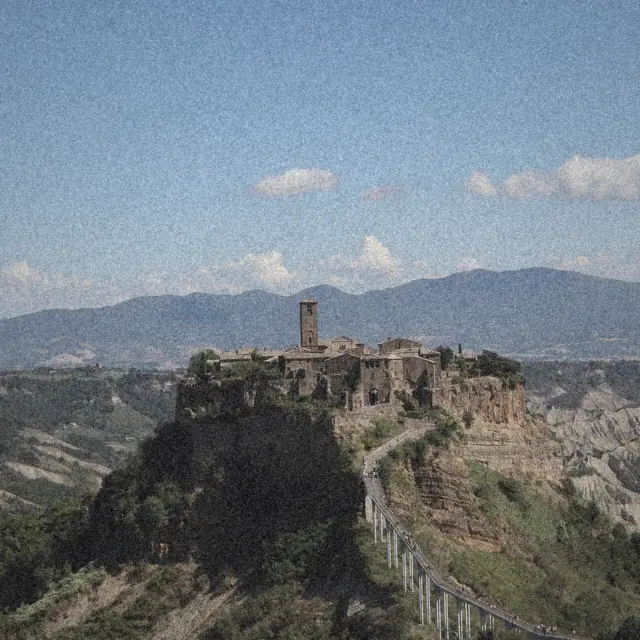
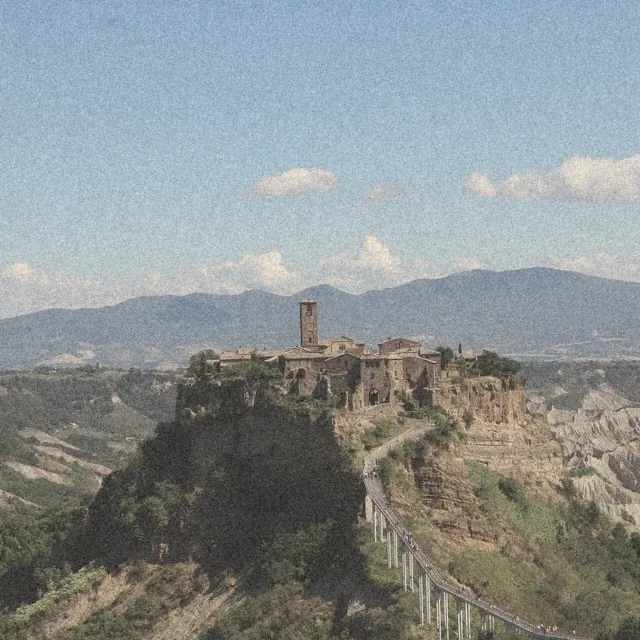
Hero help dot, Meet Argos section, lighter colour photos, new closing line
- Smaller hero headline; help text moved into an azure '?' dot pop-up with accent words and grain.
- Meet Argos section after the hero (Odyssey story, what he does), with a slot for the sketch.
- Photos regraded lighter and warmer with some colour; new set from Dushan's references.
- Closing section: 'Somewhere in Italy, a door is waiting for your key.' Any language everywhere.

Claude-Session: https://claude.ai/code/session_01RbeeASYwiyWEtYCN3RPs6M

diff --git a/src/routes/index.tsx b/src/routes/index.tsx
@@ -1,12 +1,13 @@
 import { useQuery } from "@tanstack/react-query";
 import { createFileRoute, Link, useNavigate } from "@tanstack/react-router";
-import { ArrowRight, Check, Info, MailCheck } from "lucide-react";
+import { ArrowRight, Check, MailCheck } from "lucide-react";
 import { useEffect, useState, type FormEvent, type ReactNode } from "react";
 
 import { ArgosComposer } from "@/components/odys/ArgosComposer";
 import { ListingCard, ListingCardSkeleton } from "@/components/odys/ListingCard";
 import { SourceQuote, Wordmark } from "@/components/odys/primitives";
 import { Accordion, AccordionContent, AccordionItem, AccordionTrigger } from "@/components/ui/accordion";
+import { Popover, PopoverContent, PopoverTrigger } from "@/components/ui/popover";
 import { setLang, useLang, type Lang } from "@/lib/i18n";
 import { exampleFactQuery, sendMagicLink, sourceCountsQuery, topListingsQuery } from "@/lib/public";
 import { cn } from "@/lib/utils";
@@ -38,27 +39,44 @@ function Em({ children }: { children: ReactNode }) {
   return <em className="font-display italic">{children}</em>;
 }
 
+/** Azure accent words inside the hero help pop-up. */
+function Hi({ children }: { children: ReactNode }) {
+  return <span className="text-[oklch(0.8_0.1_238)]">{children}</span>;
+}
+
+/** Set to "/img/argos.webp" once the sketch arrives; until then a lettered card stands in. */
+const ARGOS_SKETCH: string | null = null;
+
 const COPY = {
   en: {
     nav: { how: "How it works", browse: "Browse", pricing: "Pricing", signIn: "Sign in" },
     eyebrow: "sprezzatura, on your behalf.",
     hero: "Describe your dream house.",
     placeholder: "A stone house in Puglia under €40k, near a bar, some work is fine…",
-    help: "Just talk, like you would to a friend: where, how much, sea or hills, how much work you'll take on. I'll find it and do the Italian.",
-    howTalk: "Talk to me like this:",
+    helpTitle: "Talk to me like a friend.",
+    help: <>Tell me <Hi>where</Hi>, <Hi>how much</Hi>, <Hi>sea or hills</Hi> and <Hi>how much work</Hi> you'll take on. I'll find it and do the Italian.</>,
+    howTalk: "For example:",
     examples: ["Somewhere in Sicily under 30k. A house, not a flat. I can renovate.", "Show me the €1 towns in Sardinia.", "Something by the sea in the south, ready to live in, under 80k."],
-    howTalkEnd: "Tap the mic and speak, or type. Real houses appear while we talk.",
+    howTalkEnd: <>Tap the <Hi>mic</Hi> and speak any language, or type. Real houses appear while we talk.</>,
+    helpLabel: "How to talk to Argos",
     chips: ["A stone house under €50k, some work is fine", "Show me the €1 houses", "Court auctions in Sicily under €30k", "Surprise me"],
     browseAll: "Rather browse? See every listing",
     powered: "Argos, your AI agent in Italy · powered by Claude and GPT",
     statement: [<>Italy sells houses <Em>below the court's valuation</Em>.</>, " Nobody tells you where."],
+    argosLabel: "Your agent",
+    argosTitle: <>Meet <Em>Argos</Em>.</>,
+    argosStory: "Odysseus was gone for twenty years. When he finally came home in disguise, nobody knew him. Except Argos, his dog, who had waited the whole time.",
+    argosNow: "Ours doesn't wait around. Every morning he reads every court notice in Italy, writes to notaries in better Italian than yours, calls when it's quicker, and tells you only what matters. Loyal, tireless, always by your side. And yes, he talks.",
+    argosFacts: ["Reads every notice, every morning", "Writes and calls in Italian for you", "Speaks your language, whatever it is", "Never sleeps. Never sheds."],
+    argosCta: "Talk to Argos",
+    argosMeaning: "ἄργος · swift, bright",
     placesTitle: <>Where the houses are, <Em>if you know where to look</Em>.</>,
     placesLink: "Ask Argos",
     places: [
-      { img: "puglia", n: "01", title: "Puglia", body: "Trulli and masserie, many sold by the court below their valuation.", q: "A trullo or masseria in Puglia" },
-      { img: "ostuni", n: "02", title: "The white towns", body: "Whitewashed lanes in Puglia's hill towns. Small houses, small prices.", q: "A small house in a white town in Puglia" },
-      { img: "matera", n: "03", title: "Basilicata", body: "Stone houses around Matera, and quiet villages nobody has found yet.", q: "A stone house in Basilicata" },
-      { img: "tuscany", n: "04", title: "Tuscany", body: "Farmhouses at the end of cypress roads. Fewer bargains, better stories.", q: "A farmhouse in Tuscany" },
+      { img: "coast", n: "01", title: "Puglia", body: "Coves, whitewash and masserie, many sold by the court below their valuation.", q: "A house near the sea in Puglia" },
+      { img: "amalfi", n: "02", title: "The Amalfi Coast", body: "Rare and never cheap, but the courts sell here too. Argos watches every notice.", q: "Something on the Amalfi Coast" },
+      { img: "tuscany", n: "03", title: "Tuscany", body: "Farmhouses at the end of cypress roads. Fewer bargains, better stories.", q: "A farmhouse in Tuscany" },
+      { img: "alps", n: "04", title: "The Dolomites", body: "Wooden farmhouses under the peaks, for people who prefer snow to sea.", q: "A mountain house in Trentino" },
     ],
     notListedTitle: "Somewhere else?",
     notListedBody: "Argos reads every region, from the Alps to Lampedusa. Tell him where you'd like to wake up.",
@@ -69,7 +87,7 @@ const COPY = {
     howTitle: <>Ten phone calls. <Em>One shrug.</Em></>,
     howBody: "Behind the curtain: courts, town halls, a geometra, a notary, a deadline at noon on a Tuesday. In front of it: you, unbothered.",
     steps: [
-      { title: "Say it", body: "Budget, region, how much work you'll take on. Out loud, in English or Russian.", chip: "Answered in seconds" },
+      { title: "Say it", body: "Budget, region, how much work you'll take on. Out loud, in any language.", chip: "Answered in seconds" },
       { title: "Argos does Italy", body: "Every notice read, the Italian translated, emails and calls to delegates and notaries. You approve each one.", chip: "Approved by you" },
       { title: "You pick. You own.", body: "A shortlist, one deal room, one notary, your name on the deed.", chip: "Never brave on the phone" },
     ],
@@ -91,20 +109,20 @@ const COPY = {
       { img: "masseria", quote: "I said 'something in Puglia, under forty, walk to a bar'. Nine days later I was standing in it.", name: "Hannah & Tom", where: "Bristol → Ceglie Messapica" },
       { img: "cefalu", quote: "I don't speak a word of Italian. Argos called the notary, I drank coffee.", name: "Olga S.", where: "Moscow → Sciacca" },
       { img: "civita", quote: "The court papers were 84 pages. Argos told me the three lines that mattered.", name: "Marco & Lena", where: "Munich → Spoleto" },
-      { img: "trulli", quote: "Bought a house for 19 thousand. My friends think I searched for ages.", name: "Dmitri K.", where: "St Petersburg → Agrigento" },
+      { img: "oranges", quote: "Bought a house for 19 thousand. My friends think I searched for ages.", name: "Dmitri K.", where: "St Petersburg → Agrigento" },
     ],
     faqTitle: <>Fair <Em>questions</Em>.</>,
     faq: [
       { q: "So who actually buys the house?", a: "You do. Argos finds it, reads every document, writes and calls in Italian, and keeps every deadline. You approve each message and you sign with the notary. We are a technology service, not an estate agency, law firm or notary." },
-      { q: "Do I need to speak Italian?", a: "No. Talk to Argos in English or Russian. Everything Italian is translated, with the original one tap away, and every message Argos sends is shown to you in your language first." },
+      { q: "Do I need to speak Italian?", a: "No. Talk to Argos in any language you like, out loud or typed. Everything Italian is translated, with the original one tap away, and every message Argos sends is shown to you in your language first." },
       { q: "Why are these houses so cheap?", a: "Most are sold by courts, notaries and towns, not agents, so nobody markets them. Most need work and a little love. That's the whole discount." },
       { q: "What about the €1 houses?", a: "Real, with conditions: a renovation within a few years and a deposit of a few thousand euros. Argos shows each town's actual rules and the houses still on offer." },
       { q: "Can foreigners buy property in Italy?", a: "Most nationalities can. It depends on your citizenship and Italy's reciprocity rules. Argos checks it for you, and the notary confirms it before you commit." },
       { q: "What does it cost?", a: "Exploring and talking to Argos is free to start. Pro adds unlimited deals, outreach and calls. Fees to the court, the notary or a surveyor are paid by you, directly to them." },
     ],
-    finalTitle: <>Your house is in an Italian PDF <Em>somewhere</Em>.</>,
-    finalBody: "Argos is already reading it. Free to start, no password, no card.",
-    finalPoints: ["No obligation", "Real listings from day one", "Talk in English or Russian"],
+    finalTitle: <>Somewhere in Italy, a door is <Em>waiting for your key</Em>.</>,
+    finalBody: "Argos is already looking for it. Free to start, no password, no card.",
+    finalPoints: ["No obligation", "Real houses from day one", "Speak any language you like"],
     getStarted: "Get started",
     sending: "Sending",
     sent: "Check your inbox for the sign-in link.",
@@ -118,21 +136,30 @@ const COPY = {
     eyebrow: "sprezzatura, от вашего имени.",
     hero: "Опишите дом своей мечты.",
     placeholder: "Каменный дом в Апулии до 40 тысяч, рядом бар, можно с ремонтом…",
-    help: "Говорите как с другом: где, сколько, море или холмы, готовы ли к ремонту. Я найду и возьму итальянский на себя.",
-    howTalk: "Говорите со мной так:",
+    helpTitle: "Говорите со мной как с другом.",
+    help: <>Скажите <Hi>где</Hi>, <Hi>сколько</Hi>, <Hi>море или холмы</Hi> и <Hi>готовы ли к ремонту</Hi>. Я найду и возьму итальянский на себя.</>,
+    howTalk: "Например:",
     examples: ["Где-нибудь на Сицилии до 30 тысяч. Дом, не квартира. Ремонт не пугает.", "Покажи города с домами за 1 евро на Сардинии.", "Что-нибудь у моря на юге, сразу жить, до 80 тысяч."],
-    howTalkEnd: "Нажмите на микрофон и говорите или пишите. Настоящие дома появятся, пока мы разговариваем.",
+    howTalkEnd: <>Нажмите на <Hi>микрофон</Hi> и говорите на любом языке или пишите. Настоящие дома появятся, пока мы разговариваем.</>,
+    helpLabel: "Как говорить с Argos",
     chips: ["Каменный дом до €50 тыс., можно с ремонтом", "Покажи дома за €1", "Судебные торги на Сицилии до €30 тыс.", "Удиви меня"],
     browseAll: "Хотите просто посмотреть? Все объявления",
     powered: "Argos, ваш ИИ-агент в Италии · на Claude и GPT",
     statement: [<>Италия продаёт дома <Em>ниже судебной оценки</Em>.</>, " Только никто не говорит где."],
+    argosLabel: "Ваш агент",
+    argosTitle: <>Знакомьтесь, <Em>Argos</Em>.</>,
+    argosStory: "Одиссей отсутствовал двадцать лет. Когда он вернулся домой переодетым, его никто не узнал. Кроме Аргоса, его пса, который ждал всё это время.",
+    argosNow: "Наш не ждёт. Каждое утро он читает все судебные объявления Италии, пишет нотариусам на итальянском лучше вашего, звонит, когда так быстрее, и говорит вам только главное. Верный, неутомимый, всегда рядом. И да, он разговаривает.",
+    argosFacts: ["Читает каждое объявление, каждое утро", "Пишет и звонит по-итальянски за вас", "Говорит на вашем языке, каким бы он ни был", "Не спит. Не линяет."],
+    argosCta: "Поговорить с Argos",
+    argosMeaning: "ἄργος · быстрый, сияющий",
     placesTitle: <>Где эти дома, <Em>если знать, где искать</Em>.</>,
     placesLink: "Спросить Argos",
     places: [
-      { img: "puglia", n: "01", title: "Апулия", body: "Трулли и массерии, многие продаёт суд ниже оценки.", q: "Трулло или массерия в Апулии" },
-      { img: "ostuni", n: "02", title: "Белые города", body: "Выбеленные улочки горных городков Апулии. Маленькие дома, маленькие цены.", q: "Небольшой дом в белом городе Апулии" },
-      { img: "matera", n: "03", title: "Базиликата", body: "Каменные дома вокруг Матеры и тихие деревни, которые ещё никто не нашёл.", q: "Каменный дом в Базиликате" },
-      { img: "tuscany", n: "04", title: "Тоскана", body: "Фермерские дома в конце кипарисовых аллей. Меньше скидок, больше историй.", q: "Фермерский дом в Тоскане" },
+      { img: "coast", n: "01", title: "Апулия", body: "Бухты, белёные стены и массерии, многие продаёт суд ниже оценки.", q: "Дом у моря в Апулии" },
+      { img: "amalfi", n: "02", title: "Амальфитанское побережье", body: "Редко и недёшево, но суды продают и здесь. Argos следит за каждым объявлением.", q: "Что-нибудь на Амальфитанском побережье" },
+      { img: "tuscany", n: "03", title: "Тоскана", body: "Фермерские дома в конце кипарисовых аллей. Меньше скидок, больше историй.", q: "Фермерский дом в Тоскане" },
+      { img: "alps", n: "04", title: "Доломиты", body: "Деревянные дома под вершинами, для тех, кто любит снег больше моря.", q: "Горный дом в Трентино" },
     ],
     notListedTitle: "Где-то ещё?",
     notListedBody: "Argos читает все регионы, от Альп до Лампедузы. Скажите ему, где хотите просыпаться.",
@@ -143,7 +170,7 @@ const COPY = {
     howTitle: <>Десять звонков. <Em>Одно пожатие плеч.</Em></>,
     howBody: "За кулисами: суды, мэрии, геометр, нотариус, дедлайн во вторник в полдень. На сцене: вы, совершенно спокойный.",
     steps: [
-      { title: "Скажите", body: "Бюджет, регион, готовность к ремонту. Голосом, по-русски или по-английски.", chip: "Ответ за секунды" },
+      { title: "Скажите", body: "Бюджет, регион, готовность к ремонту. Голосом, на любом языке.", chip: "Ответ за секунды" },
       { title: "Argos берёт Италию на себя", body: "Каждое объявление прочитано, итальянский переведён, письма и звонки делегатам и нотариусам. Каждое вы одобряете.", chip: "Одобрено вами" },
       { title: "Вы выбираете. Вы владеете.", body: "Шорт-лист, одна сделка, один нотариус, ваше имя в договоре.", chip: "Никаких звонков на итальянском" },
     ],
@@ -165,20 +192,20 @@ const COPY = {
       { img: "masseria", quote: "Я сказала: «Апулия, до сорока, пешком до бара». Через девять дней я стояла внутри.", name: "Ханна и Том", where: "Бристоль → Челье-Мессапика" },
       { img: "cefalu", quote: "Я не говорю по-итальянски ни слова. Argos звонил нотариусу, я пила кофе.", name: "Ольга С.", where: "Москва → Шакка" },
       { img: "civita", quote: "Судебные документы были на 84 страницы. Argos показал три строки, которые имели значение.", name: "Марко и Лена", where: "Мюнхен → Сполето" },
-      { img: "trulli", quote: "Купил дом за 19 тысяч. Друзья думают, что я долго искал.", name: "Дмитрий К.", where: "Санкт-Петербург → Агридженто" },
+      { img: "oranges", quote: "Купил дом за 19 тысяч. Друзья думают, что я долго искал.", name: "Дмитрий К.", where: "Санкт-Петербург → Агридженто" },
     ],
     faqTitle: <>Честные <Em>вопросы</Em>.</>,
     faq: [
       { q: "Так кто в итоге покупает дом?", a: "Вы. Argos находит, читает все документы, пишет и звонит по-итальянски, следит за сроками. Каждое сообщение вы одобряете, а подписываете у нотариуса. Мы технологический сервис, не агентство, не юристы и не нотариус." },
-      { q: "Нужно ли знать итальянский?", a: "Нет. Говорите с Argos по-русски или по-английски. Всё итальянское переведено, оригинал в одно касание, и каждое сообщение Argos сначала показывает вам на вашем языке." },
+      { q: "Нужно ли знать итальянский?", a: "Нет. Говорите с Argos на любом языке, голосом или текстом. Всё итальянское переведено, оригинал в одно касание, и каждое сообщение Argos сначала показывает вам на вашем языке." },
       { q: "Почему эти дома такие дешёвые?", a: "Большинство продают суды, нотариусы и муниципалитеты, не агенты, поэтому их никто не рекламирует. Большинству нужен ремонт и немного любви. В этом вся скидка." },
       { q: "А дома за 1 евро?", a: "Настоящие, но с условиями: ремонт за несколько лет и залог в несколько тысяч евро. Argos показывает реальные правила каждого города и дома, которые ещё доступны." },
       { q: "Могут ли иностранцы покупать недвижимость в Италии?", a: "Граждане большинства стран могут. Это зависит от гражданства и принципа взаимности. Argos проверит, а нотариус подтвердит до сделки." },
       { q: "Сколько это стоит?", a: "Смотреть и говорить с Argos можно бесплатно. Pro добавляет неограниченные сделки, переписку и звонки. Пошлины суду, нотариусу или геометру вы платите им напрямую." },
     ],
-    finalTitle: <>Ваш дом где-то в <Em>итальянском PDF</Em>.</>,
-    finalBody: "Argos его уже читает. Бесплатно, без пароля и без карты.",
-    finalPoints: ["Без обязательств", "Настоящие объявления с первого дня", "По-русски или по-английски"],
+    finalTitle: <>Где-то в Италии дверь <Em>ждёт ваш ключ</Em>.</>,
+    finalBody: "Argos уже её ищет. Бесплатно, без пароля и без карты.",
+    finalPoints: ["Без обязательств", "Настоящие дома с первого дня", "Говорите на любом языке"],
     getStarted: "Начать",
     sending: "Отправляем",
     sent: "Проверьте почту: там ссылка для входа.",
@@ -204,6 +231,7 @@ function Index() {
     <div className="min-h-screen bg-background">
       <SiteHeader />
       <Hero />
+      <MeetArgos />
       <Statement />
       <Places />
       <HowItWorks />
@@ -315,30 +343,20 @@ function HeroVideo() {
 function Hero() {
   const [c, lang] = useCopy();
   const navigate = useNavigate();
-  const [hint, setHint] = useState(false);
   const go = (q: string, spoken = false) => navigate({ to: "/argos", search: { q, ...(spoken ? { voice: true } : {}) } });
   return (
     <section className="relative flex min-h-[100svh] flex-col overflow-hidden bg-foreground text-white">
       <HeroVideo />
       <div className="relative z-10 mx-auto flex w-full max-w-3xl flex-1 flex-col items-center justify-center px-5 pb-16 pt-24 text-center">
         <p className="font-display text-[24px] italic leading-none text-white/90 md:text-[30px]">{c.eyebrow}</p>
-        <h1 className="mt-6 type-h1 md:mt-7 md:text-[64px]">{c.hero}</h1>
-        <div className="mt-9 w-full max-w-[580px]">
-          <ArgosComposer onSubmit={go} placeholder={c.placeholder} lang={lang === "ru" ? "ru-RU" : "en-GB"} />
-        </div>
-        <div className="mt-3 flex max-w-[540px] items-start justify-center gap-2 text-[13px] font-light leading-relaxed text-white/80">
-          <p>{c.help}</p>
-          <button type="button" onClick={() => setHint(!hint)} aria-label="How to talk to Argos" className="mt-0.5 shrink-0 text-white/70 hover:text-white">
-            <Info className="h-3.5 w-3.5" />
-          </button>
-        </div>
-        {hint && (
-          <div className="frost mt-3 w-full max-w-[540px] rounded-2xl p-4 text-left text-[13px] leading-relaxed text-white/90">
-            <p className="text-white">{c.howTalk}</p>
-            <ul className="mt-1.5 space-y-1 font-light text-white/80">{c.examples.map((e) => <li key={e}>“{e}”</li>)}</ul>
-            <p className="mt-2 font-light text-white/70">{c.howTalkEnd}</p>
+        <h1 className="mt-6 type-h1 text-[38px] md:mt-7 md:text-[52px]">{c.hero}</h1>
+        <div className="mt-9 flex w-full max-w-[640px] items-center gap-2.5">
+          <span aria-hidden className="hidden w-7 shrink-0 sm:block" />
+          <div className="min-w-0 flex-1">
+            <ArgosComposer onSubmit={go} placeholder={c.placeholder} lang={lang === "ru" ? "ru-RU" : "en-GB"} />
           </div>
-        )}
+          <HelpDot />
+        </div>
         <div className="mt-6 flex max-w-[620px] flex-wrap justify-center gap-1.5">
           {c.chips.map((chip) => (
             <button key={chip} type="button" onClick={() => go(chip)}
@@ -352,6 +370,78 @@ function Hero() {
         </Link>
       </div>
       <p className="relative z-10 pb-5 text-center text-xs font-light text-white/55">{c.powered}</p>
+    </section>
+  );
+}
+
+/** The azure "?" dot beside the chatbox, like the dot in the wordmark. Opens a small grainy note on how to talk to Argos. */
+function HelpDot() {
+  const [c] = useCopy();
+  return (
+    <Popover>
+      <PopoverTrigger
+        aria-label={c.helpLabel}
+        className="relative flex h-7 w-7 shrink-0 items-center justify-center rounded-full bg-azure font-display text-[17px] italic leading-none text-white shadow-[0_0_0_4px_oklch(0.52_0.13_245/0.22)] transition-transform hover:scale-110 focus-visible:outline-none focus-visible:ring-2 focus-visible:ring-white/70"
+      >
+        ?
+      </PopoverTrigger>
+      <PopoverContent
+        side="bottom"
+        align="end"
+        sideOffset={12}
+        className="relative w-[min(340px,calc(100vw-32px))] overflow-hidden rounded-2xl border border-white/20 bg-[oklch(0.22_0.02_245/0.62)] p-5 text-white shadow-[0_24px_60px_-24px_oklch(0_0_0/0.6)] backdrop-blur-2xl"
+      >
+        <div className="grain-overlay opacity-[0.35]" />
+        <div className="relative">
+          <p className="font-display text-[22px] italic leading-tight">{c.helpTitle}</p>
+          <p className="mt-2 text-[14px] font-light leading-relaxed text-white/85">{c.help}</p>
+          <p className="mt-4 text-[11px] uppercase tracking-[0.12em] text-white/50">{c.howTalk}</p>
+          <ul className="mt-2 space-y-1.5 text-[13px] font-light leading-relaxed text-white/80">
+            {c.examples.map((e) => <li key={e}>“{e}”</li>)}
+          </ul>
+          <p className="mt-4 border-t border-white/15 pt-3 text-[13px] font-light leading-relaxed text-white/75">{c.howTalkEnd}</p>
+        </div>
+      </PopoverContent>
+    </Popover>
+  );
+}
+
+/** Argos, right after the hero: who he is, with a wink at the Odyssey. */
+function MeetArgos() {
+  const [c] = useCopy();
+  return (
+    <section className="py-20 md:py-32">
+      <Wrap className="grid items-center gap-12 md:grid-cols-[minmax(0,5fr)_minmax(0,7fr)] md:gap-20">
+        <div className="grain relative flex aspect-[4/5] max-h-[560px] w-full flex-col items-center justify-center overflow-hidden rounded-[10px] bg-muted">
+          {ARGOS_SKETCH ? (
+            <img src={ARGOS_SKETCH} alt="A sketch of Argos" className="absolute inset-0 h-full w-full object-contain p-8" />
+          ) : (
+            <>
+              <p className="font-display text-[88px] italic leading-none tracking-[-0.02em] md:text-[112px]">
+                Argos<span className="ml-1 inline-block h-[0.14em] w-[0.14em] rounded-full bg-azure align-baseline" />
+              </p>
+              <p className="mt-5 text-[13px] font-light tracking-[0.04em] text-foreground/55">{c.argosMeaning}</p>
+            </>
+          )}
+        </div>
+        <div>
+          <Label>{c.argosLabel}</Label>
+          <H2 className="mt-5">{c.argosTitle}</H2>
+          <p className="mt-7 max-w-[600px] font-display text-[22px] italic leading-snug text-foreground/80 md:text-[24px]">{c.argosStory}</p>
+          <p className="mt-5 max-w-[600px] type-body text-foreground/62">{c.argosNow}</p>
+          <ul className="mt-9 grid max-w-[600px] gap-x-8 gap-y-3 sm:grid-cols-2">
+            {c.argosFacts.map((f) => (
+              <li key={f} className="flex items-start gap-3 text-[15px] font-light">
+                <span aria-hidden className="mt-[9px] h-1.5 w-1.5 shrink-0 rounded-full bg-azure" />
+                {f}
+              </li>
+            ))}
+          </ul>
+          <div className="mt-10">
+            <PillLink to="/argos" search={{ q: "", voice: false }}>{c.argosCta}</PillLink>
+          </div>
+        </div>
+      </Wrap>
     </section>
   );
 }
@@ -502,7 +592,7 @@ function Sprezzatura() {
   return (
     <section className={SECTION}>
       <Wrap className="grid items-center gap-12 md:grid-cols-[minmax(0,5fr)_minmax(0,6fr)] md:gap-20">
-        <Photo name="alley" alt="A whitewashed lane in Ostuni" className="aspect-[4/5] max-h-[620px]" />
+        <Photo name="lunch" alt="Lunch by the sea under a fringed umbrella" className="aspect-[4/5] max-h-[620px]" />
         <div className="max-w-xl border-y border-foreground/15 py-10">
           <div className="flex flex-wrap items-baseline justify-between gap-x-6 gap-y-2">
             <p className="font-display text-[48px] italic leading-none tracking-[-0.01em]">{s.word}</p>
@@ -639,7 +729,7 @@ function Final() {
           <p className="mt-6 max-w-md type-body text-foreground/62">{c.finalBody}</p>
         </div>
         <div className="relative overflow-hidden rounded-[10px]">
-          <img src="/img/sky.webp" alt="" aria-hidden loading="lazy" className="absolute inset-0 h-full w-full object-cover" />
+          <img src="/img/window.webp" alt="" aria-hidden loading="lazy" className="absolute inset-0 h-full w-full object-cover" />
           <div className="relative m-6 rounded-[10px] border border-white/60 bg-white/55 p-7 backdrop-blur-xl md:m-12 md:p-9">
             <p className="type-label text-[11px] text-foreground/55">{c.getStarted}</p>
             <ul className="mt-5 space-y-3 text-[16px] font-light">

diff --git a/src/lib/photo-credits.ts b/src/lib/photo-credits.ts
@@ -1,40 +1,5 @@
-/** Openly licensed photos from Wikimedia Commons, regraded (black and white or muted colour, film grain). Shown on /credits. */
+/** Openly licensed photos from Wikimedia Commons, regraded (muted colour, film grain). Shown on /credits. */
 export const PHOTO_CREDITS = [
-  {
-    "image": "puglia",
-    "title": "Trulli in Alberobello 2015.jpg",
-    "author": "Livioandronico2013",
-    "license": "CC BY-SA 4.0",
-    "source": "https://commons.wikimedia.org/wiki/File:Trulli_in_Alberobello_2015.jpg"
-  },
-  {
-    "image": "ostuni",
-    "title": "\"Ostuni beeindruckt mit einer malerischen Altstadt.\" 04.jpg",
-    "author": "Holger Uwe Schmitt",
-    "license": "CC BY-SA 4.0",
-    "source": "https://commons.wikimedia.org/wiki/File:%22Ostuni_beeindruckt_mit_einer_malerischen_Altstadt.%22_04.jpg"
-  },
-  {
-    "image": "matera",
-    "title": "Matera maisons sassi.jpg",
-    "author": "Velvet",
-    "license": "CC BY-SA 4.0",
-    "source": "https://commons.wikimedia.org/wiki/File:Matera_maisons_sassi.jpg"
-  },
-  {
-    "image": "tuscany",
-    "title": "Cypress avenue at Via Cassia in Val d'Orcia.jpg",
-    "author": "Enrico Pighetti from Civitanova Marche, Italia",
-    "license": "CC BY 2.0",
-    "source": "https://commons.wikimedia.org/wiki/File:Cypress_avenue_at_Via_Cassia_in_Val_d%27Orcia.jpg"
-  },
-  {
-    "image": "alley",
-    "title": "\"Ostuni beeindruckt mit einer malerischen Altstadt.\" 06.jpg",
-    "author": "Holger Uwe Schmitt",
-    "license": "CC BY-SA 4.0",
-    "source": "https://commons.wikimedia.org/wiki/File:%22Ostuni_beeindruckt_mit_einer_malerischen_Altstadt.%22_06.jpg"
-  },
   {
     "image": "masseria",
     "title": "Masseria Pantano in Primavera.jpg",
@@ -55,19 +20,5 @@ export const PHOTO_CREDITS = [
     "author": "Esniom",
     "license": "CC BY-SA 4.0",
     "source": "https://commons.wikimedia.org/wiki/File:Civita_di_Bagnoregio_panoramic_view_from_belvedere,_Lazio,_Italy.jpg"
-  },
-  {
-    "image": "trulli",
-    "title": "Street with trulli Alberobello.jpg",
-    "author": "MPhernambucq",
-    "license": "CC BY-SA 4.0",
-    "source": "https://commons.wikimedia.org/wiki/File:Street_with_trulli_Alberobello.jpg"
-  },
-  {
-    "image": "sky",
-    "title": "Civita (Bagnoregio) - Panorama.jpg",
-    "author": "User:New2022",
-    "license": "CC BY-SA 4.0",
-    "source": "https://commons.wikimedia.org/wiki/File:Civita_(Bagnoregio)_-_Panorama.jpg"
   }
 ] as const;
